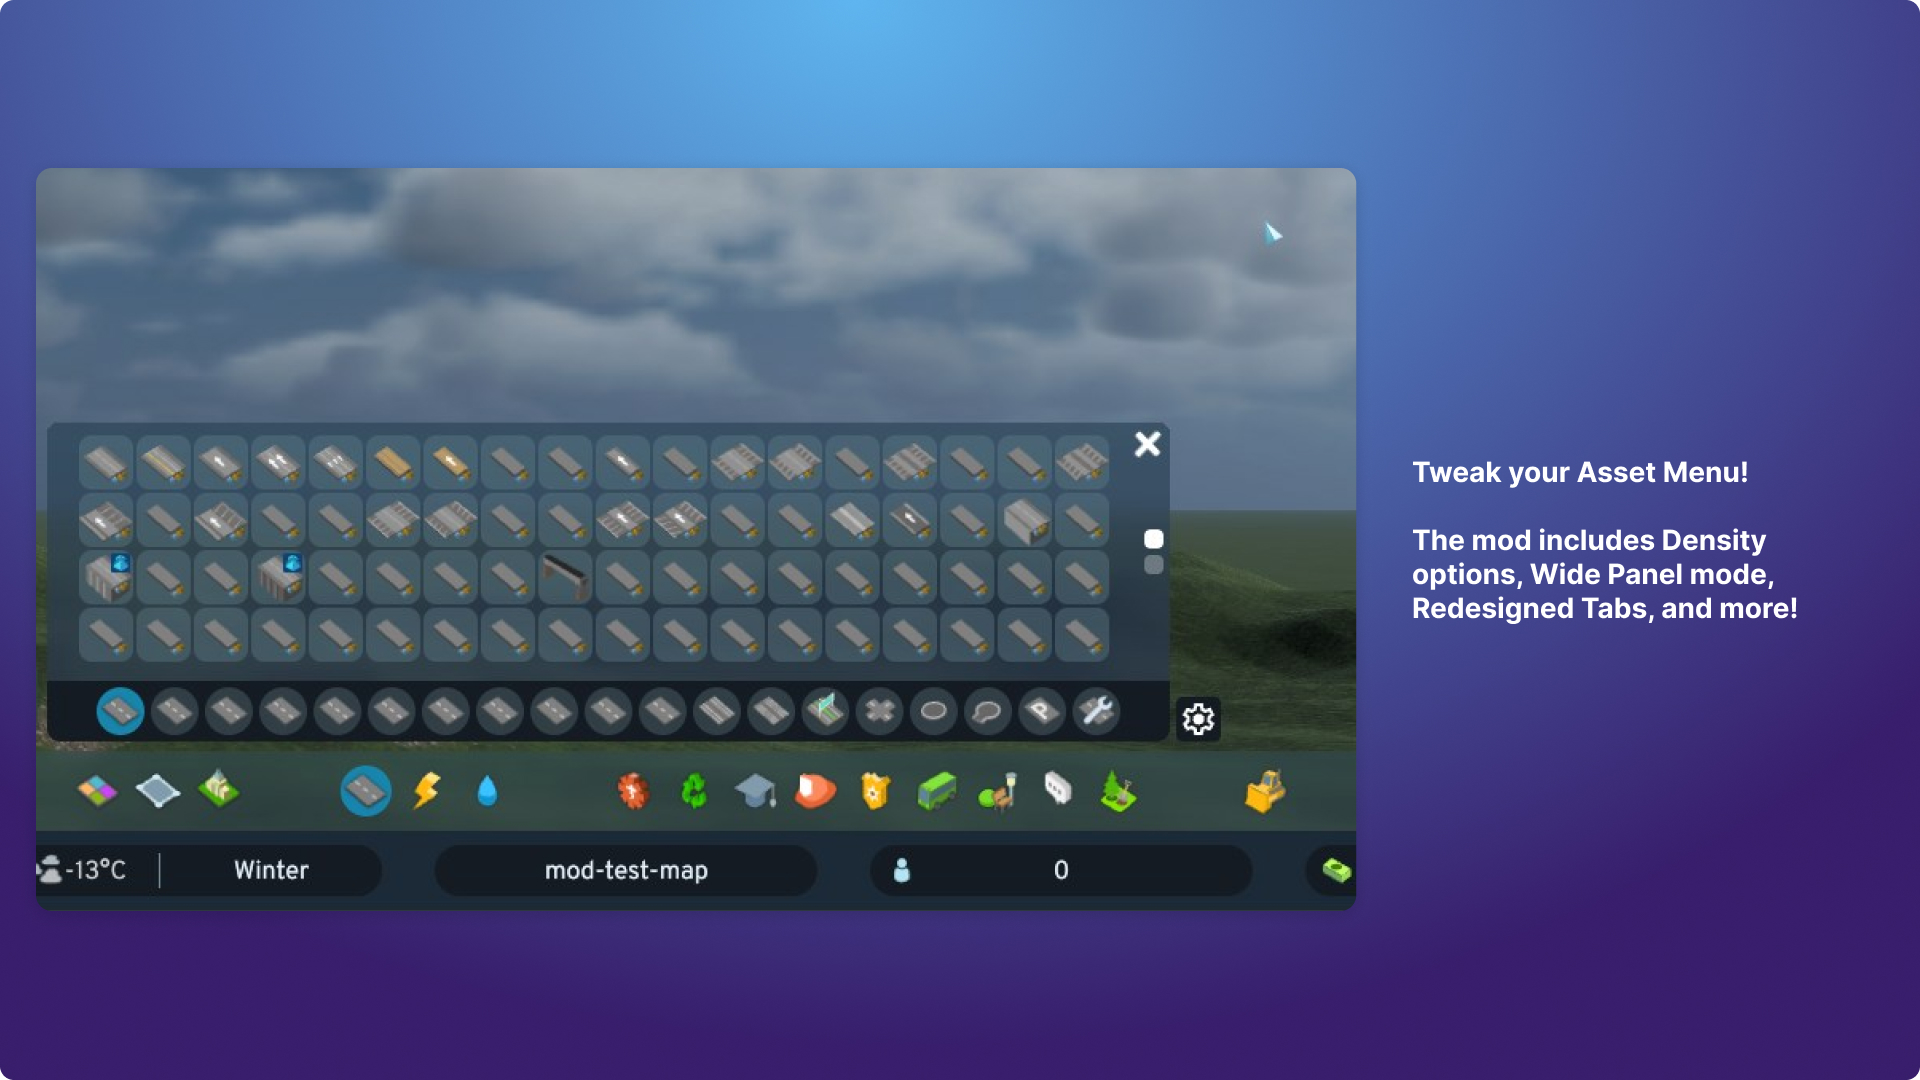
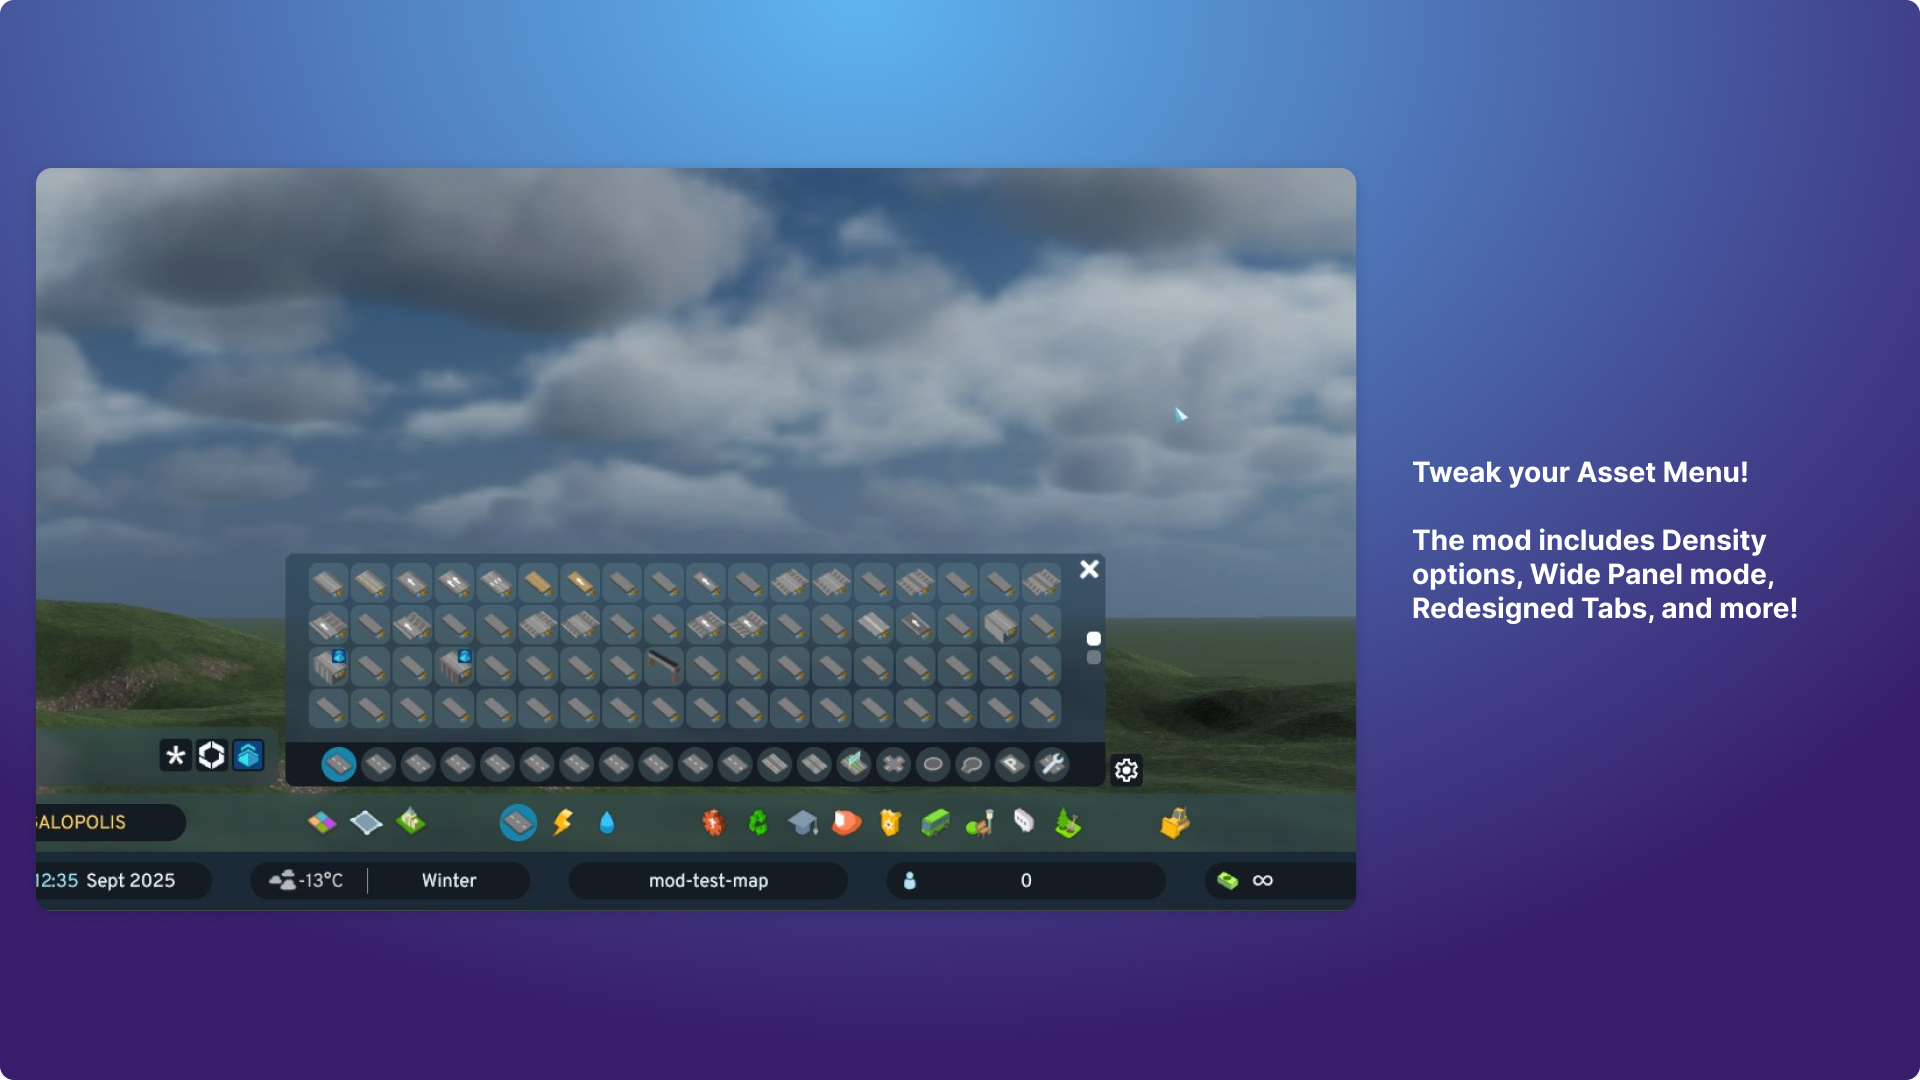
Public release

Changed region(s): [[0.0, 0.1528, 0.7188, 0.825], [0.6875, 0.7639, 0.7188, 0.825], [0.2812, 0.1528, 0.3125, 0.2139]]

diff --git a/AssetMenuTeaks/Properties/LongDescription.md b/AssetMenuTeaks/Properties/LongDescription.md
@@ -1,6 +1,6 @@
 # Asset Menu Tweaks
 
-Quality-of-life tweaks for the base-game **asset menu**, built for **heavy detailers**.
+Quality-of-life tweaks for the base-game **asset menu**.
 
 If you subscribe to hundreds of assets, you know the pain: the vanilla menu only shows two rows of big buttons, so a packed, filled-to-the-brim asset list means endless scrolling to find anything. Asset Menu Tweaks fixes that, letting you pack far more assets on screen and tailor the panel to your liking.
 
@@ -10,7 +10,7 @@ All tweaks can be toggled from the game's Options screen, or directly from butto
 * **Grid Density** -- Switch between `Low`, `Medium`, and `High` density. Medium and High shrink the asset tiles and fit more columns and rows, so you see far more at a glance. `Low` keeps the vanilla layout untouched.
 * **Hide Badges** -- Hides extra elements like DLC badges for a cleaner grid.
 * **Wide Panel** -- Widens the asset panel so more assets fit on screen.
-* **Better Tabs** *(coming soon)* -- Reworks the category tabs to handle large numbers of tabs more gracefully.
+* **Redesigned Tabs** -- Reworks the category tabs to handle large numbers of tabs more gracefully.
 
 ### Support and Translations
 Found a bug or want to help translate the mod? Join the [CS2 Modding Discord](https://discord.gg/C2XQUYHwuV).

diff --git a/AssetMenuTeaks/Properties/Changelog/1.0.5.md b/AssetMenuTeaks/Properties/Changelog/1.0.5.md
@@ -1,0 +1,1 @@
+Public Release